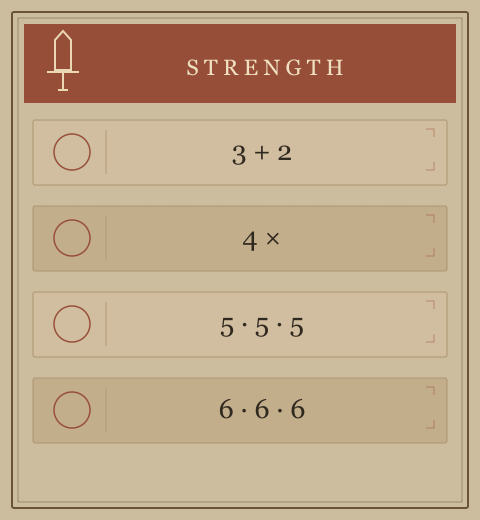
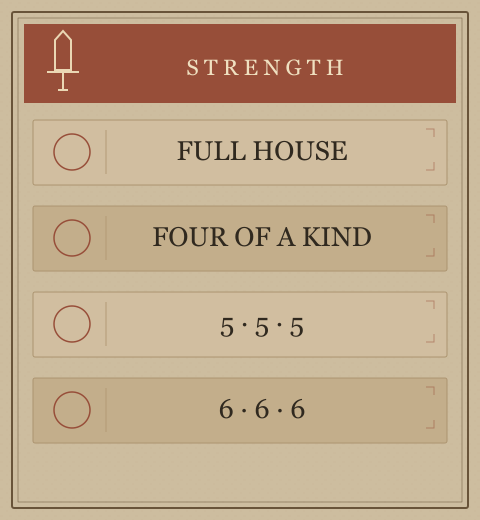
Clarify hand labels and simplify locked skills and exhausted rerolls

Changed region(s): [[0.3125, 0.4308, 0.7812, 0.4923], [0.375, 0.2462, 0.7188, 0.3077]]

diff --git a/src/scene.ts b/src/scene.ts
@@ -51,6 +51,11 @@ export class DungeonScene {
   private dice: THREE.Group[] = [];
   private markers = new Map<CategoryId, THREE.Group>();
   private chips: THREE.Group[] = [];
+  private chipProgress: THREE.Mesh<
+    THREE.PlaneGeometry,
+    THREE.MeshStandardMaterial
+  >[] = [];
+  private progressTextures: THREE.CanvasTexture[] = [];
   private rings: THREE.Mesh[] = [];
   private legalRings = new Map<CategoryId, THREE.Mesh>();
   private pawn?: THREE.Group;
@@ -253,6 +258,24 @@ export class DungeonScene {
     this.world.add(group);
     return group;
   }
+  private progressTexture(count: number) {
+    const canvas = document.createElement("canvas");
+    canvas.width = 256;
+    canvas.height = 128;
+    const context = canvas.getContext("2d")!;
+    context.fillStyle = "#352619";
+    context.font = "bold 76px Georgia, serif";
+    context.textAlign = "center";
+    context.textBaseline = "middle";
+    context.fillText(`${count}/3`, 128, 67);
+    const texture = new THREE.CanvasTexture(canvas);
+    texture.colorSpace = THREE.SRGBColorSpace;
+    texture.anisotropy = Math.min(
+      8,
+      this.renderer.capabilities.getMaxAnisotropy(),
+    );
+    return texture;
+  }
   async load() {
     const loader = new GLTFLoader();
     await Promise.all(
@@ -384,10 +407,26 @@ export class DungeonScene {
     }
     this.pawn = this.clone("adventurer");
     this.pawn.position.set(-6.8, 0.19, -7.4);
+    this.progressTextures = [0, 1, 2].map((count) =>
+      this.progressTexture(count),
+    );
     GROUPS.forEach((_, i) => {
       const chip = this.clone("skill");
       chip.position.set(-6.8 + i * 5.2, 0.13, SKILL_Z - 0.18);
       chip.scale.setScalar(1.5);
+      const progress = new THREE.Mesh(
+        new THREE.PlaneGeometry(0.7, 0.42),
+        new THREE.MeshStandardMaterial({
+          map: this.progressTextures[0],
+          transparent: true,
+          depthWrite: false,
+          roughness: 0.95,
+        }),
+      );
+      progress.rotation.x = Math.PI / 2;
+      progress.position.y = -0.003;
+      chip.add(progress);
+      this.chipProgress.push(progress);
       this.chips.push(chip);
       this.hit(`skill:${i}`, 3.8, 0.7, -5.2 + i * 5.2, 0.27, SKILL_Z);
     });
@@ -452,7 +491,8 @@ export class DungeonScene {
     });
     this.dice.forEach((d, i) => {
       d.visible = true;
-      this.rings[i].visible = held.has(i) && view.dice.length > 0;
+      this.rings[i].visible =
+        held.has(i) && view.dice.length > 0 && view.rolls.canRoll;
       this.rings[i].position.x = d.position.x;
       this.rings[i].position.z = d.position.z;
     });
@@ -462,6 +502,12 @@ export class DungeonScene {
     }
     GROUPS.forEach((g, i) => {
       const status = view.skills[SKILLS[g]].status;
+      const count = view.categories.filter(
+        (category) => category.group === g && category.isChecked,
+      ).length;
+      this.chipProgress[i].visible = status === "locked";
+      this.chipProgress[i].material.map =
+        this.progressTextures[Math.min(2, count)];
       this.chips[i].rotation.x = status === "available" ? 0 : Math.PI;
       this.chips[i].position.y = status === "available" ? 0.13 : 0.41;
     });
@@ -472,10 +518,16 @@ export class DungeonScene {
     this.refreshHits();
     this.invalidate();
   }
-  roll(values: DieValue[], indices: number[], done: () => void) {
+  roll(
+    values: DieValue[],
+    indices: number[],
+    canKeep: boolean,
+    done: () => void,
+  ) {
     this.finish(false);
     this.onComplete = done;
     for (const ring of this.legalRings.values()) ring.visible = false;
+    if (!canKeep) for (const ring of this.rings) ring.visible = false;
     for (const i of indices) {
       const yaw = (Math.random() - 0.5) * 1.5;
       const to = new THREE.Vector3(
@@ -677,6 +729,7 @@ export class DungeonScene {
   diagnostics() {
     return {
       draws: this.draws,
+      keepRings: this.rings.map((ring) => ring.visible),
       triangles: this.renderer.info.render.triangles,
       calls: this.renderer.info.render.calls,
       motions: this.motions.length,

diff --git a/src/main.ts b/src/main.ts
@@ -129,27 +129,32 @@ function render() {
   GROUPS.forEach((g, i) => {
     const id = SKILLS[g];
     const skill = view.skills[id];
-    const count = view.categories.filter(
-      (c) => c.group === g && c.isChecked,
-    ).length;
     const b = skillButtons[i];
     b.disabled =
       busy ||
       !dice.length ||
       view.gameStatus !== "playing" ||
       skill.status !== "available";
+    b.classList.toggle("locked", skill.status === "locked");
     b.classList.toggle("active", selectedSkill === id);
     b.setAttribute("aria-pressed", String(selectedSkill === id));
-    b.innerHTML = `${t(`skill_name_${id}`)}<small>${skill.status === "locked" ? `${count} / 3` : skill.status === "used" ? (locale === "ja" ? "使用済み" : "USED") : t(`skill_desc_${id}`)}</small>`;
+    b.innerHTML =
+      skill.status === "locked"
+        ? ""
+        : `${t(`skill_name_${id}`)}<small>${skill.status === "used" ? (locale === "ja" ? "使用済み" : "USED") : t(`skill_desc_${id}`)}</small>`;
   });
   diceButtons.forEach((b, i) => {
-    b.disabled = busy || !dice.length || view.gameStatus !== "playing";
-    b.classList.toggle("held", held.has(i));
+    b.disabled =
+      busy ||
+      !dice.length ||
+      view.gameStatus !== "playing" ||
+      (!view.rolls.canRoll && !selectedSkill);
+    b.classList.toggle("held", held.has(i) && view.rolls.canRoll);
     b.setAttribute(
       "aria-label",
-      `${locale === "ja" ? "ダイス" : "Die"} ${i + 1}: ${dice[i] ?? "—"} ${held.has(i) ? t("label_held") : ""}`,
+      `${locale === "ja" ? "ダイス" : "Die"} ${i + 1}: ${dice[i] ?? "—"} ${held.has(i) && view.rolls.canRoll ? t("label_held") : ""}`,
     );
-    b.setAttribute("aria-pressed", String(held.has(i)));
+    b.setAttribute("aria-pressed", String(held.has(i) && view.rolls.canRoll));
   });
   el("sound").innerHTML =
     `<svg viewBox="0 0 24 24" fill="none" stroke="currentColor" stroke-width="1.5" stroke-linecap="round" stroke-linejoin="round" aria-hidden="true"><path d="M11 5 6 9H3v6h3l5 4Z"/>${audio.muted ? '<path d="m16 9 6 6m0-6-6 6"/>' : '<path d="M15 8a6 6 0 0 1 0 8m3-11a10 10 0 0 1 0 14"/>'}</svg>`;
@@ -225,6 +230,7 @@ function tap(id: string) {
         () => settle(token),
       );
     } else {
+      if (!view.rolls.canRoll) return;
       held.has(i) ? held.delete(i) : held.add(i);
       void audio.play("pickup", 0.6, scene.diePosition(i).x / 18);
       scene.sync(view, held);
@@ -266,7 +272,12 @@ el("roll").addEventListener("click", () => {
   render();
   if (indices.length)
     void audio.play("roll", Math.max(0.35, indices.length / 5));
-  scene.roll(session.state.dice, indices, () => settle(token));
+  scene.roll(
+    session.state.dice,
+    indices,
+    getView(session.state).rolls.canRoll,
+    () => settle(token),
+  );
 });
 function restart() {
   epoch++;

diff --git a/src/layout.ts b/src/layout.ts
@@ -20,7 +20,7 @@ export type Slot = {
   mark: string;
 };
 export const slots: Slot[] = [
-  ...["≥ 20", "≥ 24", "≥ 26", "≤ 9", "5 ×"].map((mark, i) => ({
+  ...["≥ 20", "≥ 24", "≥ 26", "≤ 9", "FIVE OF A KIND"].map((mark, i) => ({
     id: `dungeon_floor_${i + 1}` as CategoryId,
     group: "dungeon" as const,
     x: -5.6 + i * 2.8,
@@ -32,21 +32,21 @@ export const slots: Slot[] = [
     const entries =
       group === "str"
         ? [
-            ["full_house", "3 + 2"],
-            ["four_of_a_kind", "4 ×"],
+            ["full_house", "FULL HOUSE"],
+            ["four_of_a_kind", "FOUR OF A KIND"],
             ["three_of_a_kind_5", "5 · 5 · 5"],
             ["three_of_a_kind_6", "6 · 6 · 6"],
           ]
         : group === "dex"
           ? [
               ["free", "ANY"],
-              ["straight", "1—5 / 2—6"],
+              ["straight", "STRAIGHT"],
               ["three_of_a_kind_1", "1 · 1 · 1"],
               ["three_of_a_kind_2", "2 · 2 · 2"],
             ]
           : [
-              ["one_pair", "2 ×"],
-              ["two_pair", "2 + 2"],
+              ["one_pair", "ONE PAIR"],
+              ["two_pair", "TWO PAIR"],
               ["three_of_a_kind_3", "3 · 3 · 3"],
               ["three_of_a_kind_4", "4 · 4 · 4"],
             ];

diff --git a/tools/print.ts b/tools/print.ts
@@ -39,7 +39,7 @@ for (let i = 0; i < 5; i++) {
       'font-weight="bold"',
     );
   } else {
-    body += text(x, 236, "5 OF", 34, "#251c15", 'font-weight="bold"');
+    body += text(x, 236, "FIVE OF", 30, "#251c15", 'font-weight="bold"');
     body += text(x, 281, "A KIND", 34, "#251c15", 'font-weight="bold"');
   }
   body += `<circle cx="${x}" cy="361" r="25" fill="#d8c59f" stroke="#695439" stroke-width="1.5"/>`;

diff --git a/src/style.css b/src/style.css
@@ -337,3 +337,7 @@ button[hidden] {
 #roll-remaining:empty {
   display: none;
 }
+
+.skill-label.locked {
+  display: none;
+}

diff --git a/README.md b/README.md
@@ -13,7 +13,7 @@ For the shared Mac preview, run `ports --help`, then `preview vite flyer "$PWD"`
 
 Tap a die to hold it. Roll again to reroll only the others, up to three rolls per turn. Tap a highlighted category to place a marker. Three checked spaces on an ability board unlock its skill: tap the skill, then a die. Each skill is usable once per turn. Empty-table taps and Escape cancel skill selection. The fifth dungeon floor wins; after the third roll, defeat waits until no sequence of remaining skills can produce a valid category.
 
-The tabletop fills the viewport. Tap the physical dice directly; held dice have a ring and no numeric labels. The circular button at bottom right starts as `Roll`, then shows `Reroll 2/2`, `Reroll 1/2`, and `Reroll 0/2`. Completed spaces use wooden markers without checkmark overlays. Victory plays a short brass-and-bell fanfare and displays only the play-again button. Drag to pan and pinch or scroll to zoom; the camera keeps its orientation. Small sound and help icons sit at top right. Settings, reached through help, expose field of view, elevation, framing distance, volume, language, restart, and play-log export. Camera changes persist only after Save; navigation gestures remain temporary. Sound preferences and language persist automatically. Japanese is the fixed default; the existing eight translation dictionaries are retained. Board printing uses language-independent numeric patterns and English headings.
+The tabletop fills the viewport. Tap the physical dice directly; held dice have a ring and no numeric labels. Keep rings disappear as the final reroll starts. Locked skills show only `0/3`, `1/3`, or `2/3` printed on the wooden chip; skill labels appear once unlocked. The circular button at bottom right starts as `Roll`, then shows `Reroll 2/2`, `Reroll 1/2`, and `Reroll 0/2`. Completed spaces use wooden markers without checkmark overlays. Victory plays a short brass-and-bell fanfare and displays only the play-again button. Drag to pan and pinch or scroll to zoom; the camera keeps its orientation. Small sound and help icons sit at top right. Settings, reached through help, expose field of view, elevation, framing distance, volume, language, restart, and play-log export. Camera changes persist only after Save; navigation gestures remain temporary. Sound preferences and language persist automatically. Japanese is the fixed default; the existing eight translation dictionaries are retained. Board printing uses English poker-hand names and numeric patterns for specific die faces.
 
 The main target is desktop and tablet. On narrow screens, zoom into the desired board to read and select its rows. There is no idle animation, camera orbit, physical dice simulation, or network game. The approximately 1.2-second dice motion presents results already chosen by the rules engine; held dice stay in place. Audio begins after a user gesture, stops when muted or hidden, and does not replay old tails on resume.
 
